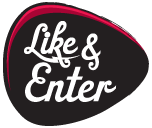
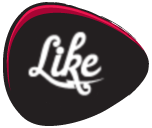
9/19/2013 changes
- Change the title of the tab from "Enter Sweepstakes" to "Sweepstakes"
- Change the body copy from "Like us on Facebook for your chance to win!
Get codes…" to:
Thanks to everyone who played our Spin to Win contest on Facebook.  You
made it a great success! While our Legendary Giveback II sweepstakes is
now over, the fun is just getting started. The Legendary Giveback II
concert is just around the corner, so like our Facebook page for the
latest news about the concert and for more ways to win.
- Change the "Like & Enter" guitar pick button to just "Like".

Changed region(s): [[0.1579, 0.1562, 0.7632, 0.8125]]

diff --git a/app/assets/stylesheets/style.css b/app/assets/stylesheets/style.css
@@ -615,7 +615,7 @@ width: 377px;
 {
 	text-align: center;
 	margin-left: 399px;
-	margin-top: 78px;
+	margin-top: 35px;
 	position: absolute;
 	z-index: 10;
 	width: 671px;
